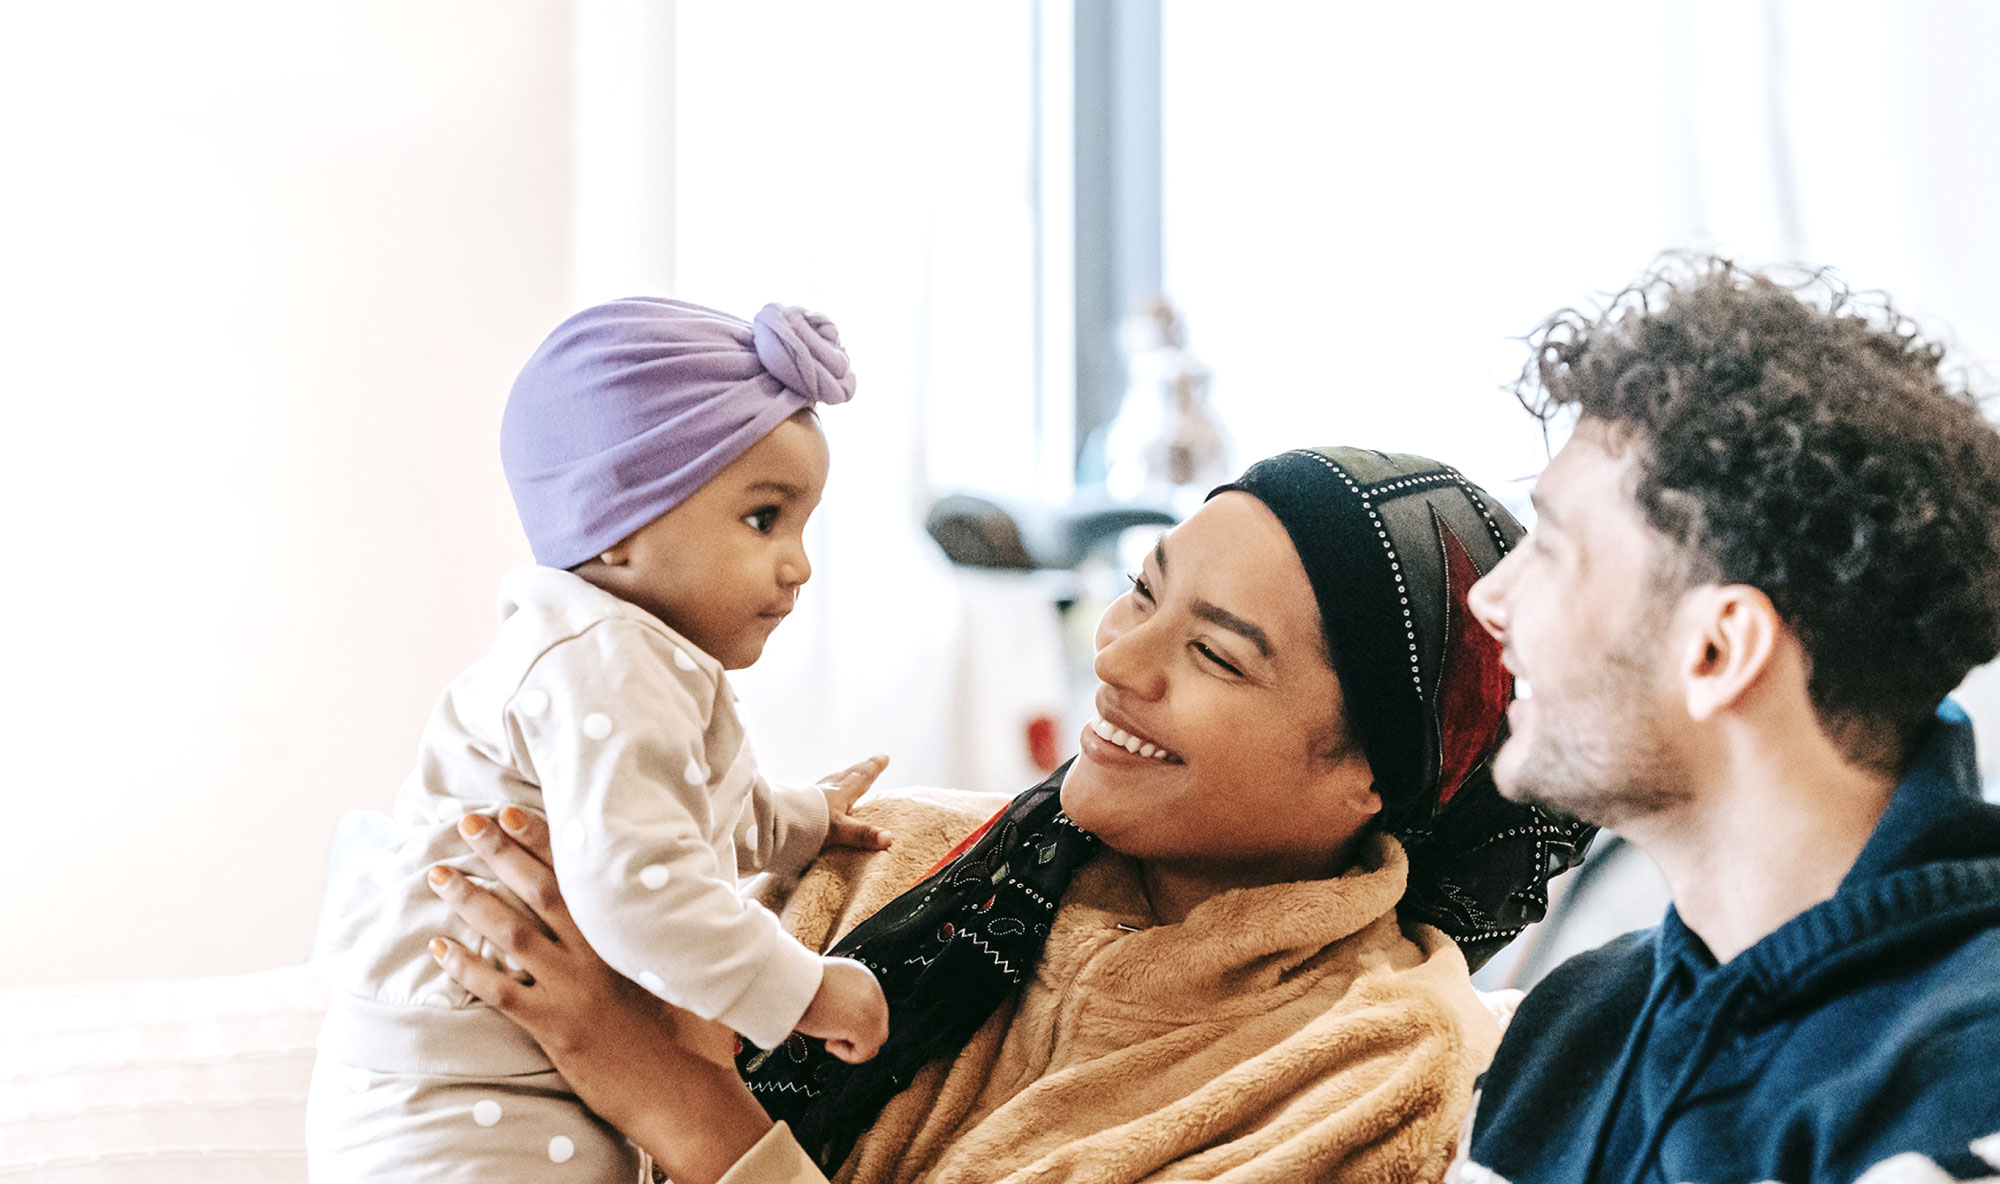
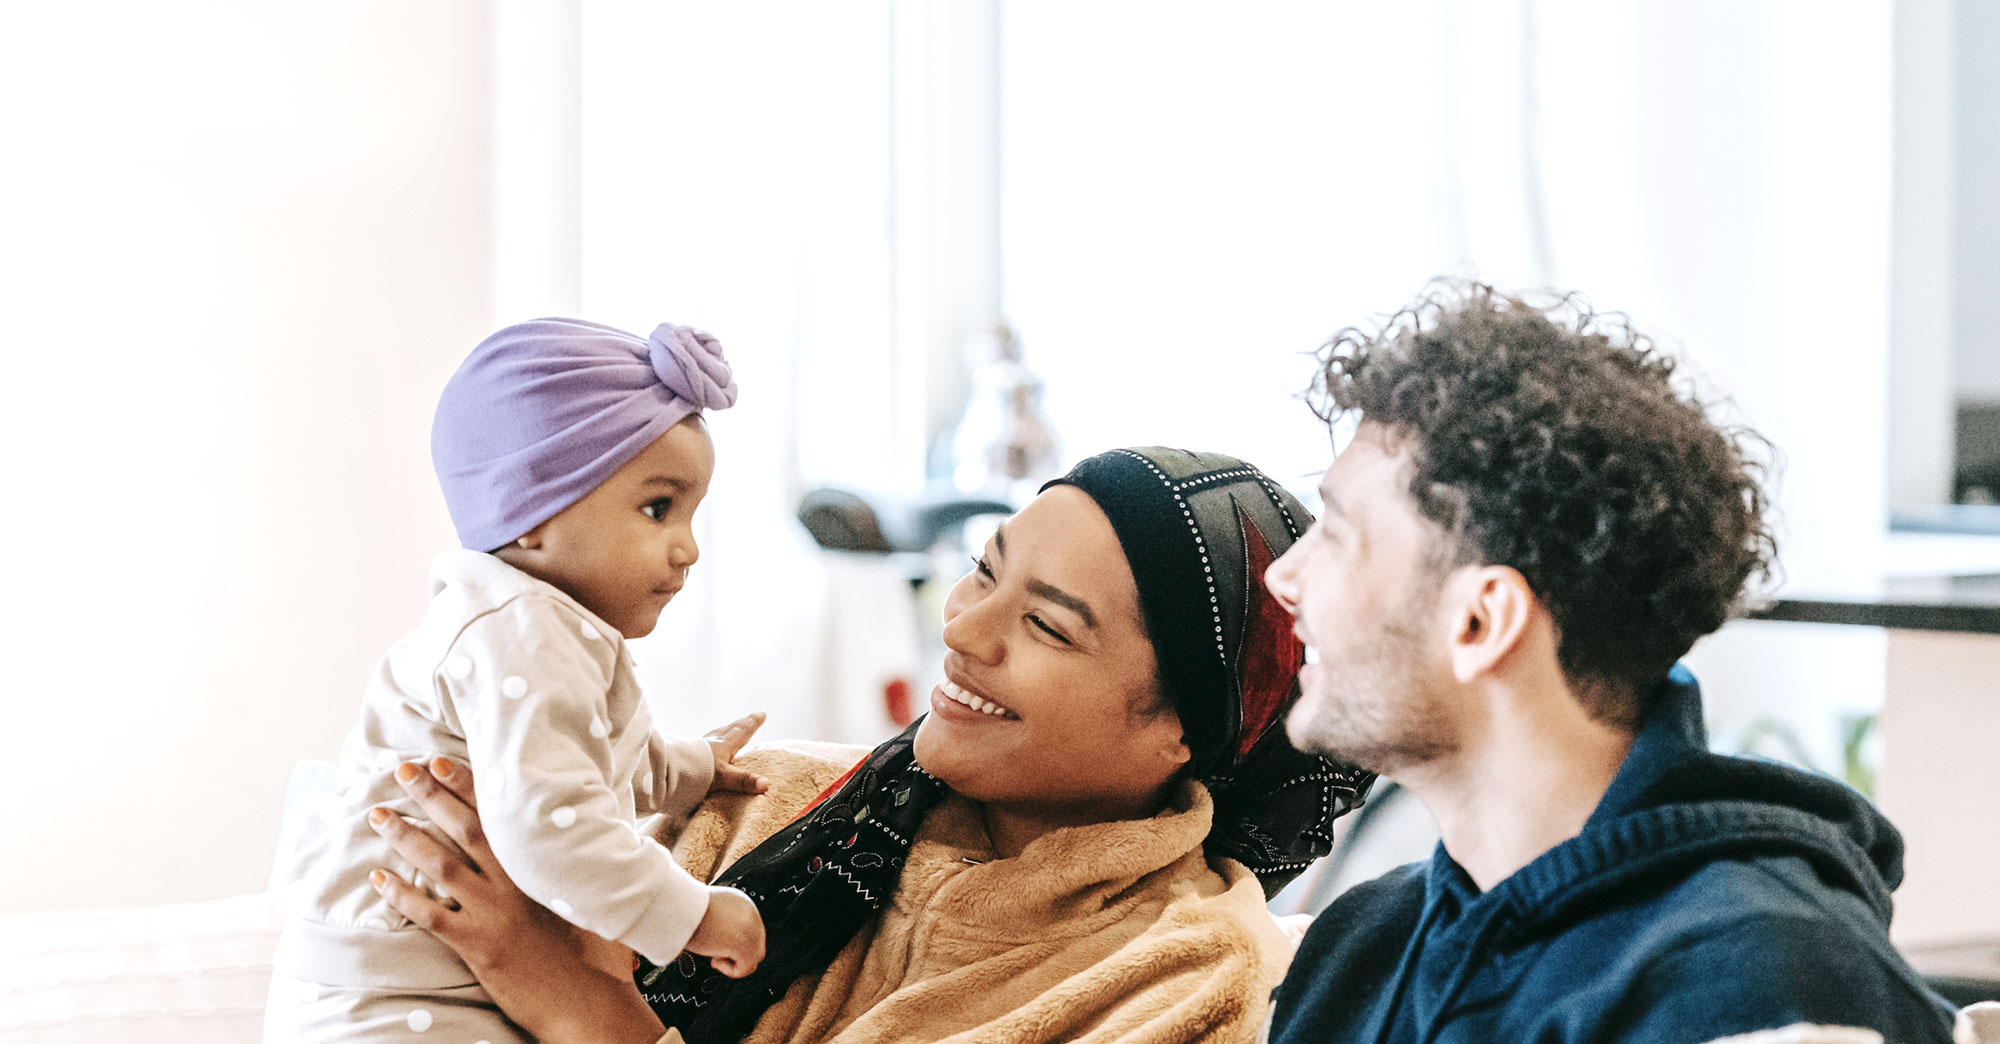
final contact hero tweaks

diff --git a/styles/base.css b/styles/base.css
@@ -128,7 +128,7 @@ p {
 /* contact jumbotron */
 
 .jumbotron-contact {
-  background: url(../images/contact-hero-new-4.jpg) no-repeat center center;
+  background: url(../images/contact-hero-new-5.jpg) no-repeat center center;
   -webkit-background-size: cover;
   -moz-background-size: cover;
   background-size: cover;
